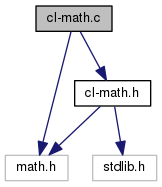
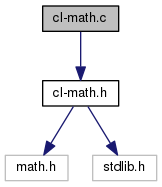
Update documentation

diff --git a/cl-math_8h_source.html b/cl-math_8h_source.html
@@ -22,6 +22,12 @@
 <script type="text/javascript">
   $(document).ready(function() { init_search(); });
 </script>
+<script type="text/x-mathjax-config">
+  MathJax.Hub.Config({
+    extensions: ["tex2jax.js"],
+    jax: ["input/TeX","output/HTML-CSS"],
+});
+</script><script type="text/javascript" src="http://cdn.mathjax.org/mathjax/latest/MathJax.js"></script>
 <link href="doxygen.css" rel="stylesheet" type="text/css" />
 </head>
 <body>
@@ -106,9 +112,9 @@ $(document).ready(function(){initNavTree('cl-math_8h_source.html','');});
 <div class="title">cl-math.h</div>  </div>
 </div><!--header-->
 <div class="contents">
-<a href="cl-math_8h.html">Go to the documentation of this file.</a><div class="fragment"><div class="line"><a name="l00001"></a><span class="lineno">    1</span>&#160;<span class="comment">/*</span></div><div class="line"><a name="l00002"></a><span class="lineno">    2</span>&#160;<span class="comment"> * Copyright 2017 - Soroush Rabiei, &lt;soroush@ametisco.ir&gt;</span></div><div class="line"><a name="l00003"></a><span class="lineno">    3</span>&#160;<span class="comment"> * This file is part of libcalendar.</span></div><div class="line"><a name="l00004"></a><span class="lineno">    4</span>&#160;<span class="comment"> *</span></div><div class="line"><a name="l00005"></a><span class="lineno">    5</span>&#160;<span class="comment"> * libcalendar is free software: you can redistribute it and/or modify</span></div><div class="line"><a name="l00006"></a><span class="lineno">    6</span>&#160;<span class="comment"> * it under the terms of the GNU General Public License as published by</span></div><div class="line"><a name="l00007"></a><span class="lineno">    7</span>&#160;<span class="comment"> * the Free Software Foundation, either version 3 of the License, or</span></div><div class="line"><a name="l00008"></a><span class="lineno">    8</span>&#160;<span class="comment"> * (at your option) any later version.</span></div><div class="line"><a name="l00009"></a><span class="lineno">    9</span>&#160;<span class="comment"> *</span></div><div class="line"><a name="l00010"></a><span class="lineno">   10</span>&#160;<span class="comment"> * libcalendar is distributed in the hope that it will be useful,</span></div><div class="line"><a name="l00011"></a><span class="lineno">   11</span>&#160;<span class="comment"> * but WITHOUT ANY WARRANTY; without even the implied warranty of</span></div><div class="line"><a name="l00012"></a><span class="lineno">   12</span>&#160;<span class="comment"> * MERCHANTABILITY or FITNESS FOR A PARTICULAR PURPOSE.  See the</span></div><div class="line"><a name="l00013"></a><span class="lineno">   13</span>&#160;<span class="comment"> * GNU General Public License for more details.</span></div><div class="line"><a name="l00014"></a><span class="lineno">   14</span>&#160;<span class="comment"> *</span></div><div class="line"><a name="l00015"></a><span class="lineno">   15</span>&#160;<span class="comment"> * You should have received a copy of the GNU General Public License</span></div><div class="line"><a name="l00016"></a><span class="lineno">   16</span>&#160;<span class="comment"> * along with libcalendar.  If not, see &lt;http://www.gnu.org/licenses/&gt;.</span></div><div class="line"><a name="l00017"></a><span class="lineno">   17</span>&#160;<span class="comment"> *</span></div><div class="line"><a name="l00018"></a><span class="lineno">   18</span>&#160;<span class="comment"> */</span></div><div class="line"><a name="l00019"></a><span class="lineno">   19</span>&#160;</div><div class="line"><a name="l00020"></a><span class="lineno">   20</span>&#160;<span class="preprocessor">#ifndef LIBCALENDAR_MATH_H</span></div><div class="line"><a name="l00021"></a><span class="lineno">   21</span>&#160;<span class="preprocessor">#define LIBCALENDAR_MATH_H</span></div><div class="line"><a name="l00022"></a><span class="lineno">   22</span>&#160;</div><div class="line"><a name="l00023"></a><span class="lineno">   23</span>&#160;<span class="preprocessor">#include &lt;math.h&gt;</span></div><div class="line"><a name="l00024"></a><span class="lineno">   24</span>&#160;<span class="preprocessor">#include &lt;stdlib.h&gt;</span></div><div class="line"><a name="l00025"></a><span class="lineno">   25</span>&#160;</div><div class="line"><a name="l00026"></a><span class="lineno">   26</span>&#160;<span class="preprocessor">#ifdef __cplusplus</span></div><div class="line"><a name="l00027"></a><span class="lineno">   27</span>&#160;<span class="keyword">extern</span> <span class="stringliteral">&quot;C&quot;</span> {</div><div class="line"><a name="l00028"></a><span class="lineno">   28</span>&#160;<span class="preprocessor">#endif</span></div><div class="line"><a name="l00029"></a><span class="lineno">   29</span>&#160;</div><div class="line"><a name="l00030"></a><span class="lineno">   30</span>&#160;div_t <a class="code" href="cl-math_8h.html#acf94563bffe323e2182f8e1ae77be052">clm_pdiv</a>(<span class="keywordtype">int</span> d, <span class="keywordtype">int</span> v);</div><div class="line"><a name="l00031"></a><span class="lineno">   31</span>&#160;<span class="keywordtype">int</span> <a class="code" href="cl-math_8h.html#a53baf9bc4cf7d44c7c20b431f9194908">clm_floor_div</a>(<span class="keywordtype">int</span> a, <span class="keywordtype">int</span> b);</div><div class="line"><a name="l00032"></a><span class="lineno">   32</span>&#160;<span class="keywordtype">int</span> <a class="code" href="cl-math_8h.html#a9eb2dc0fb68b69e5d4bd4dd663e51263">clm_mod</a>(<span class="keywordtype">int</span> a, <span class="keywordtype">int</span> b);</div><div class="line"><a name="l00033"></a><span class="lineno">   33</span>&#160;</div><div class="line"><a name="l00034"></a><span class="lineno">   34</span>&#160;<span class="preprocessor">#ifdef __cplusplus</span></div><div class="line"><a name="l00035"></a><span class="lineno">   35</span>&#160;}</div><div class="line"><a name="l00036"></a><span class="lineno">   36</span>&#160;<span class="preprocessor">#endif</span></div><div class="line"><a name="l00037"></a><span class="lineno">   37</span>&#160;</div><div class="line"><a name="l00038"></a><span class="lineno">   38</span>&#160;<span class="preprocessor">#endif </span><span class="comment">/* LIBCALENDAR_MATH_H */</span><span class="preprocessor"></span></div><div class="ttc" id="cl-math_8h_html_a53baf9bc4cf7d44c7c20b431f9194908"><div class="ttname"><a href="cl-math_8h.html#a53baf9bc4cf7d44c7c20b431f9194908">clm_floor_div</a></div><div class="ttdeci">int clm_floor_div(int a, int b)</div><div class="ttdef"><b>Definition:</b> cl-math.c:37</div></div>
-<div class="ttc" id="cl-math_8h_html_a9eb2dc0fb68b69e5d4bd4dd663e51263"><div class="ttname"><a href="cl-math_8h.html#a9eb2dc0fb68b69e5d4bd4dd663e51263">clm_mod</a></div><div class="ttdeci">int clm_mod(int a, int b)</div><div class="ttdef"><b>Definition:</b> cl-math.c:41</div></div>
-<div class="ttc" id="cl-math_8h_html_acf94563bffe323e2182f8e1ae77be052"><div class="ttname"><a href="cl-math_8h.html#acf94563bffe323e2182f8e1ae77be052">clm_pdiv</a></div><div class="ttdeci">div_t clm_pdiv(int d, int v)</div><div class="ttdef"><b>Definition:</b> cl-math.c:23</div></div>
+<a href="cl-math_8h.html">Go to the documentation of this file.</a><div class="fragment"><div class="line"><a name="l00001"></a><span class="lineno">    1</span>&#160;<span class="comment">/*</span></div><div class="line"><a name="l00002"></a><span class="lineno">    2</span>&#160;<span class="comment"> * Copyright 2017 - Soroush Rabiei, &lt;soroush@ametisco.ir&gt;</span></div><div class="line"><a name="l00003"></a><span class="lineno">    3</span>&#160;<span class="comment"> * This file is part of libcalendar.</span></div><div class="line"><a name="l00004"></a><span class="lineno">    4</span>&#160;<span class="comment"> *</span></div><div class="line"><a name="l00005"></a><span class="lineno">    5</span>&#160;<span class="comment"> * libcalendar is free software: you can redistribute it and/or modify</span></div><div class="line"><a name="l00006"></a><span class="lineno">    6</span>&#160;<span class="comment"> * it under the terms of the GNU General Public License as published by</span></div><div class="line"><a name="l00007"></a><span class="lineno">    7</span>&#160;<span class="comment"> * the Free Software Foundation, either version 3 of the License, or</span></div><div class="line"><a name="l00008"></a><span class="lineno">    8</span>&#160;<span class="comment"> * (at your option) any later version.</span></div><div class="line"><a name="l00009"></a><span class="lineno">    9</span>&#160;<span class="comment"> *</span></div><div class="line"><a name="l00010"></a><span class="lineno">   10</span>&#160;<span class="comment"> * libcalendar is distributed in the hope that it will be useful,</span></div><div class="line"><a name="l00011"></a><span class="lineno">   11</span>&#160;<span class="comment"> * but WITHOUT ANY WARRANTY; without even the implied warranty of</span></div><div class="line"><a name="l00012"></a><span class="lineno">   12</span>&#160;<span class="comment"> * MERCHANTABILITY or FITNESS FOR A PARTICULAR PURPOSE.  See the</span></div><div class="line"><a name="l00013"></a><span class="lineno">   13</span>&#160;<span class="comment"> * GNU General Public License for more details.</span></div><div class="line"><a name="l00014"></a><span class="lineno">   14</span>&#160;<span class="comment"> *</span></div><div class="line"><a name="l00015"></a><span class="lineno">   15</span>&#160;<span class="comment"> * You should have received a copy of the GNU General Public License</span></div><div class="line"><a name="l00016"></a><span class="lineno">   16</span>&#160;<span class="comment"> * along with libcalendar.  If not, see &lt;http://www.gnu.org/licenses/&gt;.</span></div><div class="line"><a name="l00017"></a><span class="lineno">   17</span>&#160;<span class="comment"> *</span></div><div class="line"><a name="l00018"></a><span class="lineno">   18</span>&#160;<span class="comment"> */</span></div><div class="line"><a name="l00019"></a><span class="lineno">   19</span>&#160;</div><div class="line"><a name="l00020"></a><span class="lineno">   20</span>&#160;<span class="preprocessor">#ifndef LIBCALENDAR_MATH_H</span></div><div class="line"><a name="l00021"></a><span class="lineno">   21</span>&#160;<span class="preprocessor">#define LIBCALENDAR_MATH_H</span></div><div class="line"><a name="l00022"></a><span class="lineno">   22</span>&#160;</div><div class="line"><a name="l00023"></a><span class="lineno">   23</span>&#160;<span class="preprocessor">#include &lt;math.h&gt;</span></div><div class="line"><a name="l00024"></a><span class="lineno">   24</span>&#160;<span class="preprocessor">#include &lt;stdlib.h&gt;</span></div><div class="line"><a name="l00025"></a><span class="lineno">   25</span>&#160;</div><div class="line"><a name="l00026"></a><span class="lineno">   26</span>&#160;<span class="preprocessor">#ifdef __cplusplus</span></div><div class="line"><a name="l00027"></a><span class="lineno">   27</span>&#160;<span class="keyword">extern</span> <span class="stringliteral">&quot;C&quot;</span> {</div><div class="line"><a name="l00028"></a><span class="lineno">   28</span>&#160;<span class="preprocessor">#endif</span></div><div class="line"><a name="l00029"></a><span class="lineno">   29</span>&#160;</div><div class="line"><a name="l00033"></a><span class="lineno">   33</span>&#160;div_t <a class="code" href="cl-math_8h.html#acf94563bffe323e2182f8e1ae77be052">clm_pdiv</a>(<span class="keywordtype">int</span> d, <span class="keywordtype">int</span> v);</div><div class="line"><a name="l00034"></a><span class="lineno">   34</span>&#160;</div><div class="line"><a name="l00038"></a><span class="lineno">   38</span>&#160;<span class="keywordtype">int</span> <a class="code" href="cl-math_8h.html#a53baf9bc4cf7d44c7c20b431f9194908">clm_floor_div</a>(<span class="keywordtype">int</span> a, <span class="keywordtype">int</span> b);</div><div class="line"><a name="l00039"></a><span class="lineno">   39</span>&#160;</div><div class="line"><a name="l00043"></a><span class="lineno">   43</span>&#160;<span class="keywordtype">int</span> <a class="code" href="cl-math_8h.html#a9eb2dc0fb68b69e5d4bd4dd663e51263">clm_mod</a>(<span class="keywordtype">int</span> a, <span class="keywordtype">int</span> b);</div><div class="line"><a name="l00044"></a><span class="lineno">   44</span>&#160;</div><div class="line"><a name="l00045"></a><span class="lineno">   45</span>&#160;<span class="preprocessor">#ifdef __cplusplus</span></div><div class="line"><a name="l00046"></a><span class="lineno">   46</span>&#160;}</div><div class="line"><a name="l00047"></a><span class="lineno">   47</span>&#160;<span class="preprocessor">#endif</span></div><div class="line"><a name="l00048"></a><span class="lineno">   48</span>&#160;</div><div class="line"><a name="l00049"></a><span class="lineno">   49</span>&#160;<span class="preprocessor">#endif </span><span class="comment">/* LIBCALENDAR_MATH_H */</span><span class="preprocessor"></span></div><div class="ttc" id="cl-math_8h_html_a53baf9bc4cf7d44c7c20b431f9194908"><div class="ttname"><a href="cl-math_8h.html#a53baf9bc4cf7d44c7c20b431f9194908">clm_floor_div</a></div><div class="ttdeci">int clm_floor_div(int a, int b)</div><div class="ttdoc">Floor Division Function. </div><div class="ttdef"><b>Definition:</b> cl-math.c:57</div></div>
+<div class="ttc" id="cl-math_8h_html_a9eb2dc0fb68b69e5d4bd4dd663e51263"><div class="ttname"><a href="cl-math_8h.html#a9eb2dc0fb68b69e5d4bd4dd663e51263">clm_mod</a></div><div class="ttdeci">int clm_mod(int a, int b)</div><div class="ttdoc">Modular Division Function. </div><div class="ttdef"><b>Definition:</b> cl-math.c:69</div></div>
+<div class="ttc" id="cl-math_8h_html_acf94563bffe323e2182f8e1ae77be052"><div class="ttname"><a href="cl-math_8h.html#acf94563bffe323e2182f8e1ae77be052">clm_pdiv</a></div><div class="ttdeci">div_t clm_pdiv(int d, int v)</div><div class="ttdoc">Division with Positive Ramainder. </div><div class="ttdef"><b>Definition:</b> cl-math.c:34</div></div>
 </div><!-- fragment --></div><!-- contents -->
 </div><!-- doc-content -->
 <!-- start footer part -->

diff --git a/cl-math_8c.html b/cl-math_8c.html
@@ -22,6 +22,12 @@
 <script type="text/javascript">
   $(document).ready(function() { init_search(); });
 </script>
+<script type="text/x-mathjax-config">
+  MathJax.Hub.Config({
+    extensions: ["tex2jax.js"],
+    jax: ["input/TeX","output/HTML-CSS"],
+});
+</script><script type="text/javascript" src="http://cdn.mathjax.org/mathjax/latest/MathJax.js"></script>
 <link href="doxygen.css" rel="stylesheet" type="text/css" />
 </head>
 <body>
@@ -109,24 +115,26 @@ $(document).ready(function(){initNavTree('cl-math_8c.html','');});
 </div><!--header-->
 <div class="contents">
 <div class="textblock"><code>#include &quot;<a class="el" href="cl-math_8h_source.html">cl-math.h</a>&quot;</code><br />
-<code>#include &lt;math.h&gt;</code><br />
 </div><div class="textblock"><div class="dynheader">
 Include dependency graph for cl-math.c:</div>
 <div class="dyncontent">
 <div class="center"><img src="cl-math_8c__incl.png" border="0" usemap="#cl-math_8c" alt=""/></div>
 <map name="cl-math_8c" id="cl-math_8c">
-<area shape="rect" id="node2" href="cl-math_8h.html" title="cl&#45;math.h" alt="" coords="75,80,151,107"/>
+<area shape="rect" id="node2" href="cl-math_8h.html" title="cl&#45;math.h" alt="" coords="43,80,119,107"/>
 </map>
 </div>
 </div><table class="memberdecls">
 <tr class="heading"><td colspan="2"><h2 class="groupheader"><a name="func-members"></a>
 Functions</h2></td></tr>
-<tr class="memitem:acf94563bffe323e2182f8e1ae77be052"><td class="memItemLeft" align="right" valign="top">div_t&#160;</td><td class="memItemRight" valign="bottom"><a class="el" href="cl-math_8c.html#acf94563bffe323e2182f8e1ae77be052">clm_pdiv</a> (int d, int v)</td></tr>
-<tr class="separator:acf94563bffe323e2182f8e1ae77be052"><td class="memSeparator" colspan="2">&#160;</td></tr>
+<tr class="memitem:a8ac7c7f6d1bd74efe6ae794dec837dea"><td class="memItemLeft" align="right" valign="top">div_t&#160;</td><td class="memItemRight" valign="bottom"><a class="el" href="cl-math_8c.html#a8ac7c7f6d1bd74efe6ae794dec837dea">clm_pdiv</a> (int y, int x)</td></tr>
+<tr class="memdesc:a8ac7c7f6d1bd74efe6ae794dec837dea"><td class="mdescLeft">&#160;</td><td class="mdescRight">Division with Positive Ramainder.  <a href="#a8ac7c7f6d1bd74efe6ae794dec837dea">More...</a><br /></td></tr>
+<tr class="separator:a8ac7c7f6d1bd74efe6ae794dec837dea"><td class="memSeparator" colspan="2">&#160;</td></tr>
 <tr class="memitem:a53baf9bc4cf7d44c7c20b431f9194908"><td class="memItemLeft" align="right" valign="top">int&#160;</td><td class="memItemRight" valign="bottom"><a class="el" href="cl-math_8c.html#a53baf9bc4cf7d44c7c20b431f9194908">clm_floor_div</a> (int a, int b)</td></tr>
+<tr class="memdesc:a53baf9bc4cf7d44c7c20b431f9194908"><td class="mdescLeft">&#160;</td><td class="mdescRight">Floor Division Function.  <a href="#a53baf9bc4cf7d44c7c20b431f9194908">More...</a><br /></td></tr>
 <tr class="separator:a53baf9bc4cf7d44c7c20b431f9194908"><td class="memSeparator" colspan="2">&#160;</td></tr>
-<tr class="memitem:a9eb2dc0fb68b69e5d4bd4dd663e51263"><td class="memItemLeft" align="right" valign="top">int&#160;</td><td class="memItemRight" valign="bottom"><a class="el" href="cl-math_8c.html#a9eb2dc0fb68b69e5d4bd4dd663e51263">clm_mod</a> (int a, int b)</td></tr>
-<tr class="separator:a9eb2dc0fb68b69e5d4bd4dd663e51263"><td class="memSeparator" colspan="2">&#160;</td></tr>
+<tr class="memitem:ad42f3ffb5429294a390bcf90d324912c"><td class="memItemLeft" align="right" valign="top">int&#160;</td><td class="memItemRight" valign="bottom"><a class="el" href="cl-math_8c.html#ad42f3ffb5429294a390bcf90d324912c">clm_mod</a> (int x, int y)</td></tr>
+<tr class="memdesc:ad42f3ffb5429294a390bcf90d324912c"><td class="mdescLeft">&#160;</td><td class="mdescRight">Modular Division Function.  <a href="#ad42f3ffb5429294a390bcf90d324912c">More...</a><br /></td></tr>
+<tr class="separator:ad42f3ffb5429294a390bcf90d324912c"><td class="memSeparator" colspan="2">&#160;</td></tr>
 </table>
 <h2 class="groupheader">Function Documentation</h2>
 <a class="anchor" id="a53baf9bc4cf7d44c7c20b431f9194908"></a>
@@ -153,9 +161,15 @@ Functions</h2></td></tr>
       </table>
 </div><div class="memdoc">
 
+<p>Floor Division Function. </p>
+<p>C implentation of integer division results in truncation toward zero. While we ofthen need floor, ceil or rounding. This function simulates floor division in an optimized way. It returns:</p>
+<p class="formulaDsp">
+\[ \left\lfloor\frac{a}{b}\right\rfloor \]
+</p>
+ 
 </div>
 </div>
-<a class="anchor" id="a9eb2dc0fb68b69e5d4bd4dd663e51263"></a>
+<a class="anchor" id="ad42f3ffb5429294a390bcf90d324912c"></a>
 <div class="memitem">
 <div class="memproto">
       <table class="memname">
@@ -163,13 +177,13 @@ Functions</h2></td></tr>
           <td class="memname">int clm_mod </td>
           <td>(</td>
           <td class="paramtype">int&#160;</td>
-          <td class="paramname"><em>a</em>, </td>
+          <td class="paramname"><em>x</em>, </td>
         </tr>
         <tr>
           <td class="paramkey"></td>
           <td></td>
           <td class="paramtype">int&#160;</td>
-          <td class="paramname"><em>b</em>&#160;</td>
+          <td class="paramname"><em>y</em>&#160;</td>
         </tr>
         <tr>
           <td></td>
@@ -179,9 +193,15 @@ Functions</h2></td></tr>
       </table>
 </div><div class="memdoc">
 
+<p>Modular Division Function. </p>
+<p>This function returns non-negative remainder from division of \(y\) by \(x\), i.e. \(x \bmod y\)</p>
+<p class="formulaDsp">
+\[ x \bmod y=x-y\left\lfloor\frac{x}{y}\right\rfloor \]
+</p>
+ 
 </div>
 </div>
-<a class="anchor" id="acf94563bffe323e2182f8e1ae77be052"></a>
+<a class="anchor" id="a8ac7c7f6d1bd74efe6ae794dec837dea"></a>
 <div class="memitem">
 <div class="memproto">
       <table class="memname">
@@ -189,13 +209,13 @@ Functions</h2></td></tr>
           <td class="memname">div_t clm_pdiv </td>
           <td>(</td>
           <td class="paramtype">int&#160;</td>
-          <td class="paramname"><em>d</em>, </td>
+          <td class="paramname"><em>y</em>, </td>
         </tr>
         <tr>
           <td class="paramkey"></td>
           <td></td>
           <td class="paramtype">int&#160;</td>
-          <td class="paramname"><em>v</em>&#160;</td>
+          <td class="paramname"><em>x</em>&#160;</td>
         </tr>
         <tr>
           <td></td>
@@ -205,6 +225,12 @@ Functions</h2></td></tr>
       </table>
 </div><div class="memdoc">
 
+<p>Division with Positive Ramainder. </p>
+<p>Division of a whole number \(y\) by another whole number \(x\) results in a quotient \(q\) and a remainder \(r\). In our calculations, the remainder never should be negative. Then \(0 ≤ r \lt \left|x\right|\) As a result:</p>
+<p class="formulaDsp">
+\begin{eqnarray*} q &amp;=&amp; \left\lfloor\frac{y}{x}\right\rfloor \\ r &amp;=&amp; y \bmod x = y − x\left\lfloor\frac{y}{x}\right\rfloor \\ y &amp;=&amp; qx + r \end{eqnarray*}
+</p>
+ 
 </div>
 </div>
 </div><!-- contents -->

diff --git a/cl-math_8h.html b/cl-math_8h.html
@@ -22,6 +22,12 @@
 <script type="text/javascript">
   $(document).ready(function() { init_search(); });
 </script>
+<script type="text/x-mathjax-config">
+  MathJax.Hub.Config({
+    extensions: ["tex2jax.js"],
+    jax: ["input/TeX","output/HTML-CSS"],
+});
+</script><script type="text/javascript" src="http://cdn.mathjax.org/mathjax/latest/MathJax.js"></script>
 <link href="doxygen.css" rel="stylesheet" type="text/css" />
 </head>
 <body>
@@ -134,10 +140,13 @@ This graph shows which files directly or indirectly include this file:</div>
 <tr class="heading"><td colspan="2"><h2 class="groupheader"><a name="func-members"></a>
 Functions</h2></td></tr>
 <tr class="memitem:acf94563bffe323e2182f8e1ae77be052"><td class="memItemLeft" align="right" valign="top">div_t&#160;</td><td class="memItemRight" valign="bottom"><a class="el" href="cl-math_8h.html#acf94563bffe323e2182f8e1ae77be052">clm_pdiv</a> (int d, int v)</td></tr>
+<tr class="memdesc:acf94563bffe323e2182f8e1ae77be052"><td class="mdescLeft">&#160;</td><td class="mdescRight">Division with Positive Ramainder.  <a href="#acf94563bffe323e2182f8e1ae77be052">More...</a><br /></td></tr>
 <tr class="separator:acf94563bffe323e2182f8e1ae77be052"><td class="memSeparator" colspan="2">&#160;</td></tr>
 <tr class="memitem:a53baf9bc4cf7d44c7c20b431f9194908"><td class="memItemLeft" align="right" valign="top">int&#160;</td><td class="memItemRight" valign="bottom"><a class="el" href="cl-math_8h.html#a53baf9bc4cf7d44c7c20b431f9194908">clm_floor_div</a> (int a, int b)</td></tr>
+<tr class="memdesc:a53baf9bc4cf7d44c7c20b431f9194908"><td class="mdescLeft">&#160;</td><td class="mdescRight">Floor Division Function.  <a href="#a53baf9bc4cf7d44c7c20b431f9194908">More...</a><br /></td></tr>
 <tr class="separator:a53baf9bc4cf7d44c7c20b431f9194908"><td class="memSeparator" colspan="2">&#160;</td></tr>
 <tr class="memitem:a9eb2dc0fb68b69e5d4bd4dd663e51263"><td class="memItemLeft" align="right" valign="top">int&#160;</td><td class="memItemRight" valign="bottom"><a class="el" href="cl-math_8h.html#a9eb2dc0fb68b69e5d4bd4dd663e51263">clm_mod</a> (int a, int b)</td></tr>
+<tr class="memdesc:a9eb2dc0fb68b69e5d4bd4dd663e51263"><td class="mdescLeft">&#160;</td><td class="mdescRight">Modular Division Function.  <a href="#a9eb2dc0fb68b69e5d4bd4dd663e51263">More...</a><br /></td></tr>
 <tr class="separator:a9eb2dc0fb68b69e5d4bd4dd663e51263"><td class="memSeparator" colspan="2">&#160;</td></tr>
 </table>
 <h2 class="groupheader">Function Documentation</h2>
@@ -165,6 +174,12 @@ Functions</h2></td></tr>
       </table>
 </div><div class="memdoc">
 
+<p>Floor Division Function. </p>
+<p>C implentation of integer division results in truncation toward zero. While we ofthen need floor, ceil or rounding. This function simulates floor division in an optimized way. It returns:</p>
+<p class="formulaDsp">
+\[ \left\lfloor\frac{a}{b}\right\rfloor \]
+</p>
+ 
 </div>
 </div>
 <a class="anchor" id="a9eb2dc0fb68b69e5d4bd4dd663e51263"></a>
@@ -175,13 +190,13 @@ Functions</h2></td></tr>
           <td class="memname">int clm_mod </td>
           <td>(</td>
           <td class="paramtype">int&#160;</td>
-          <td class="paramname"><em>a</em>, </td>
+          <td class="paramname"><em>x</em>, </td>
         </tr>
         <tr>
           <td class="paramkey"></td>
           <td></td>
           <td class="paramtype">int&#160;</td>
-          <td class="paramname"><em>b</em>&#160;</td>
+          <td class="paramname"><em>y</em>&#160;</td>
         </tr>
         <tr>
           <td></td>
@@ -191,6 +206,12 @@ Functions</h2></td></tr>
       </table>
 </div><div class="memdoc">
 
+<p>Modular Division Function. </p>
+<p>This function returns non-negative remainder from division of \(y\) by \(x\), i.e. \(x \bmod y\)</p>
+<p class="formulaDsp">
+\[ x \bmod y=x-y\left\lfloor\frac{x}{y}\right\rfloor \]
+</p>
+ 
 </div>
 </div>
 <a class="anchor" id="acf94563bffe323e2182f8e1ae77be052"></a>
@@ -201,13 +222,13 @@ Functions</h2></td></tr>
           <td class="memname">div_t clm_pdiv </td>
           <td>(</td>
           <td class="paramtype">int&#160;</td>
-          <td class="paramname"><em>d</em>, </td>
+          <td class="paramname"><em>y</em>, </td>
         </tr>
         <tr>
           <td class="paramkey"></td>
           <td></td>
           <td class="paramtype">int&#160;</td>
-          <td class="paramname"><em>v</em>&#160;</td>
+          <td class="paramname"><em>x</em>&#160;</td>
         </tr>
         <tr>
           <td></td>
@@ -217,6 +238,12 @@ Functions</h2></td></tr>
       </table>
 </div><div class="memdoc">
 
+<p>Division with Positive Ramainder. </p>
+<p>Division of a whole number \(y\) by another whole number \(x\) results in a quotient \(q\) and a remainder \(r\). In our calculations, the remainder never should be negative. Then \(0 ≤ r \lt \left|x\right|\) As a result:</p>
+<p class="formulaDsp">
+\begin{eqnarray*} q &amp;=&amp; \left\lfloor\frac{y}{x}\right\rfloor \\ r &amp;=&amp; y \bmod x = y − x\left\lfloor\frac{y}{x}\right\rfloor \\ y &amp;=&amp; qx + r \end{eqnarray*}
+</p>
+ 
 </div>
 </div>
 </div><!-- contents -->

diff --git a/search/all_0.js b/search/all_0.js
@@ -14,7 +14,7 @@ var searchData=
   ['cl_2dsolar_2dhijri_2ec',['cl-solar-hijri.c',['../cl-solar-hijri_8c.html',1,'']]],
   ['cl_2dsolar_2dhijri_2eh',['cl-solar-hijri.h',['../cl-solar-hijri_8h.html',1,'']]],
   ['clm_5ffloor_5fdiv',['clm_floor_div',['../cl-math_8c.html#a53baf9bc4cf7d44c7c20b431f9194908',1,'clm_floor_div(int a, int b):&#160;cl-math.c'],['../cl-math_8h.html#a53baf9bc4cf7d44c7c20b431f9194908',1,'clm_floor_div(int a, int b):&#160;cl-math.c']]],
-  ['clm_5fmod',['clm_mod',['../cl-math_8c.html#a9eb2dc0fb68b69e5d4bd4dd663e51263',1,'clm_mod(int a, int b):&#160;cl-math.c'],['../cl-math_8h.html#a9eb2dc0fb68b69e5d4bd4dd663e51263',1,'clm_mod(int a, int b):&#160;cl-math.c']]],
-  ['clm_5fpdiv',['clm_pdiv',['../cl-math_8c.html#acf94563bffe323e2182f8e1ae77be052',1,'clm_pdiv(int d, int v):&#160;cl-math.c'],['../cl-math_8h.html#acf94563bffe323e2182f8e1ae77be052',1,'clm_pdiv(int d, int v):&#160;cl-math.c']]],
+  ['clm_5fmod',['clm_mod',['../cl-math_8c.html#ad42f3ffb5429294a390bcf90d324912c',1,'clm_mod(int x, int y):&#160;cl-math.c'],['../cl-math_8h.html#a9eb2dc0fb68b69e5d4bd4dd663e51263',1,'clm_mod(int a, int b):&#160;cl-math.c']]],
+  ['clm_5fpdiv',['clm_pdiv',['../cl-math_8c.html#a8ac7c7f6d1bd74efe6ae794dec837dea',1,'clm_pdiv(int y, int x):&#160;cl-math.c'],['../cl-math_8h.html#acf94563bffe323e2182f8e1ae77be052',1,'clm_pdiv(int d, int v):&#160;cl-math.c']]],
   ['cycle',['cycle',['../cl-solar-hijri_8c.html#aa23b3de21c5fa8dfe0b8e9d030000234',1,'cl-solar-hijri.c']]]
 ];

diff --git a/search/functions_0.js b/search/functions_0.js
@@ -1,7 +1,7 @@
 var searchData=
 [
   ['clm_5ffloor_5fdiv',['clm_floor_div',['../cl-math_8c.html#a53baf9bc4cf7d44c7c20b431f9194908',1,'clm_floor_div(int a, int b):&#160;cl-math.c'],['../cl-math_8h.html#a53baf9bc4cf7d44c7c20b431f9194908',1,'clm_floor_div(int a, int b):&#160;cl-math.c']]],
-  ['clm_5fmod',['clm_mod',['../cl-math_8c.html#a9eb2dc0fb68b69e5d4bd4dd663e51263',1,'clm_mod(int a, int b):&#160;cl-math.c'],['../cl-math_8h.html#a9eb2dc0fb68b69e5d4bd4dd663e51263',1,'clm_mod(int a, int b):&#160;cl-math.c']]],
-  ['clm_5fpdiv',['clm_pdiv',['../cl-math_8c.html#acf94563bffe323e2182f8e1ae77be052',1,'clm_pdiv(int d, int v):&#160;cl-math.c'],['../cl-math_8h.html#acf94563bffe323e2182f8e1ae77be052',1,'clm_pdiv(int d, int v):&#160;cl-math.c']]],
+  ['clm_5fmod',['clm_mod',['../cl-math_8c.html#ad42f3ffb5429294a390bcf90d324912c',1,'clm_mod(int x, int y):&#160;cl-math.c'],['../cl-math_8h.html#a9eb2dc0fb68b69e5d4bd4dd663e51263',1,'clm_mod(int a, int b):&#160;cl-math.c']]],
+  ['clm_5fpdiv',['clm_pdiv',['../cl-math_8c.html#a8ac7c7f6d1bd74efe6ae794dec837dea',1,'clm_pdiv(int y, int x):&#160;cl-math.c'],['../cl-math_8h.html#acf94563bffe323e2182f8e1ae77be052',1,'clm_pdiv(int d, int v):&#160;cl-math.c']]],
   ['cycle',['cycle',['../cl-solar-hijri_8c.html#aa23b3de21c5fa8dfe0b8e9d030000234',1,'cl-solar-hijri.c']]]
 ];

diff --git a/globals_func.html b/globals_func.html
@@ -22,6 +22,12 @@
 <script type="text/javascript">
   $(document).ready(function() { init_search(); });
 </script>
+<script type="text/x-mathjax-config">
+  MathJax.Hub.Config({
+    extensions: ["tex2jax.js"],
+    jax: ["input/TeX","output/HTML-CSS"],
+});
+</script><script type="text/javascript" src="http://cdn.mathjax.org/mathjax/latest/MathJax.js"></script>
 <link href="doxygen.css" rel="stylesheet" type="text/css" />
 </head>
 <body>
@@ -127,11 +133,11 @@ $(document).ready(function(){initNavTree('globals_func.html','');});
 </li>
 <li>clm_mod()
 : <a class="el" href="cl-math_8h.html#a9eb2dc0fb68b69e5d4bd4dd663e51263">cl-math.h</a>
-, <a class="el" href="cl-math_8c.html#a9eb2dc0fb68b69e5d4bd4dd663e51263">cl-math.c</a>
+, <a class="el" href="cl-math_8c.html#ad42f3ffb5429294a390bcf90d324912c">cl-math.c</a>
 </li>
 <li>clm_pdiv()
 : <a class="el" href="cl-math_8h.html#acf94563bffe323e2182f8e1ae77be052">cl-math.h</a>
-, <a class="el" href="cl-math_8c.html#acf94563bffe323e2182f8e1ae77be052">cl-math.c</a>
+, <a class="el" href="cl-math_8c.html#a8ac7c7f6d1bd74efe6ae794dec837dea">cl-math.c</a>
 </li>
 <li>cycle()
 : <a class="el" href="cl-solar-hijri_8c.html#aa23b3de21c5fa8dfe0b8e9d030000234">cl-solar-hijri.c</a>

diff --git a/globals.html b/globals.html
@@ -22,6 +22,12 @@
 <script type="text/javascript">
   $(document).ready(function() { init_search(); });
 </script>
+<script type="text/x-mathjax-config">
+  MathJax.Hub.Config({
+    extensions: ["tex2jax.js"],
+    jax: ["input/TeX","output/HTML-CSS"],
+});
+</script><script type="text/javascript" src="http://cdn.mathjax.org/mathjax/latest/MathJax.js"></script>
 <link href="doxygen.css" rel="stylesheet" type="text/css" />
 </head>
 <body>
@@ -127,11 +133,11 @@ $(document).ready(function(){initNavTree('globals.html','');});
 , <a class="el" href="cl-math_8h.html#a53baf9bc4cf7d44c7c20b431f9194908">cl-math.h</a>
 </li>
 <li>clm_mod()
-: <a class="el" href="cl-math_8c.html#a9eb2dc0fb68b69e5d4bd4dd663e51263">cl-math.c</a>
+: <a class="el" href="cl-math_8c.html#ad42f3ffb5429294a390bcf90d324912c">cl-math.c</a>
 , <a class="el" href="cl-math_8h.html#a9eb2dc0fb68b69e5d4bd4dd663e51263">cl-math.h</a>
 </li>
 <li>clm_pdiv()
-: <a class="el" href="cl-math_8c.html#acf94563bffe323e2182f8e1ae77be052">cl-math.c</a>
+: <a class="el" href="cl-math_8c.html#a8ac7c7f6d1bd74efe6ae794dec837dea">cl-math.c</a>
 , <a class="el" href="cl-math_8h.html#acf94563bffe323e2182f8e1ae77be052">cl-math.h</a>
 </li>
 <li>cycle()

diff --git a/navtreeindex0.js b/navtreeindex0.js
@@ -64,8 +64,8 @@ var NAVTREEINDEX0 =
 "cl-julian_8h_source.html":[0,0,6],
 "cl-math_8c.html":[0,0,7],
 "cl-math_8c.html#a53baf9bc4cf7d44c7c20b431f9194908":[0,0,7,0],
-"cl-math_8c.html#a9eb2dc0fb68b69e5d4bd4dd663e51263":[0,0,7,1],
-"cl-math_8c.html#acf94563bffe323e2182f8e1ae77be052":[0,0,7,2],
+"cl-math_8c.html#a8ac7c7f6d1bd74efe6ae794dec837dea":[0,0,7,2],
+"cl-math_8c.html#ad42f3ffb5429294a390bcf90d324912c":[0,0,7,1],
 "cl-math_8h.html":[0,0,8],
 "cl-math_8h.html#a53baf9bc4cf7d44c7c20b431f9194908":[0,0,8,0],
 "cl-math_8h.html#a9eb2dc0fb68b69e5d4bd4dd663e51263":[0,0,8,1],

diff --git a/cl-export_8h.html b/cl-export_8h.html
@@ -22,6 +22,12 @@
 <script type="text/javascript">
   $(document).ready(function() { init_search(); });
 </script>
+<script type="text/x-mathjax-config">
+  MathJax.Hub.Config({
+    extensions: ["tex2jax.js"],
+    jax: ["input/TeX","output/HTML-CSS"],
+});
+</script><script type="text/javascript" src="http://cdn.mathjax.org/mathjax/latest/MathJax.js"></script>
 <link href="doxygen.css" rel="stylesheet" type="text/css" />
 </head>
 <body>

diff --git a/cl-export_8h_source.html b/cl-export_8h_source.html
@@ -22,6 +22,12 @@
 <script type="text/javascript">
   $(document).ready(function() { init_search(); });
 </script>
+<script type="text/x-mathjax-config">
+  MathJax.Hub.Config({
+    extensions: ["tex2jax.js"],
+    jax: ["input/TeX","output/HTML-CSS"],
+});
+</script><script type="text/javascript" src="http://cdn.mathjax.org/mathjax/latest/MathJax.js"></script>
 <link href="doxygen.css" rel="stylesheet" type="text/css" />
 </head>
 <body>

diff --git a/cl-gregorian_8c.html b/cl-gregorian_8c.html
@@ -22,6 +22,12 @@
 <script type="text/javascript">
   $(document).ready(function() { init_search(); });
 </script>
+<script type="text/x-mathjax-config">
+  MathJax.Hub.Config({
+    extensions: ["tex2jax.js"],
+    jax: ["input/TeX","output/HTML-CSS"],
+});
+</script><script type="text/javascript" src="http://cdn.mathjax.org/mathjax/latest/MathJax.js"></script>
 <link href="doxygen.css" rel="stylesheet" type="text/css" />
 </head>
 <body>

diff --git a/cl-gregorian_8h.html b/cl-gregorian_8h.html
@@ -22,6 +22,12 @@
 <script type="text/javascript">
   $(document).ready(function() { init_search(); });
 </script>
+<script type="text/x-mathjax-config">
+  MathJax.Hub.Config({
+    extensions: ["tex2jax.js"],
+    jax: ["input/TeX","output/HTML-CSS"],
+});
+</script><script type="text/javascript" src="http://cdn.mathjax.org/mathjax/latest/MathJax.js"></script>
 <link href="doxygen.css" rel="stylesheet" type="text/css" />
 </head>
 <body>
